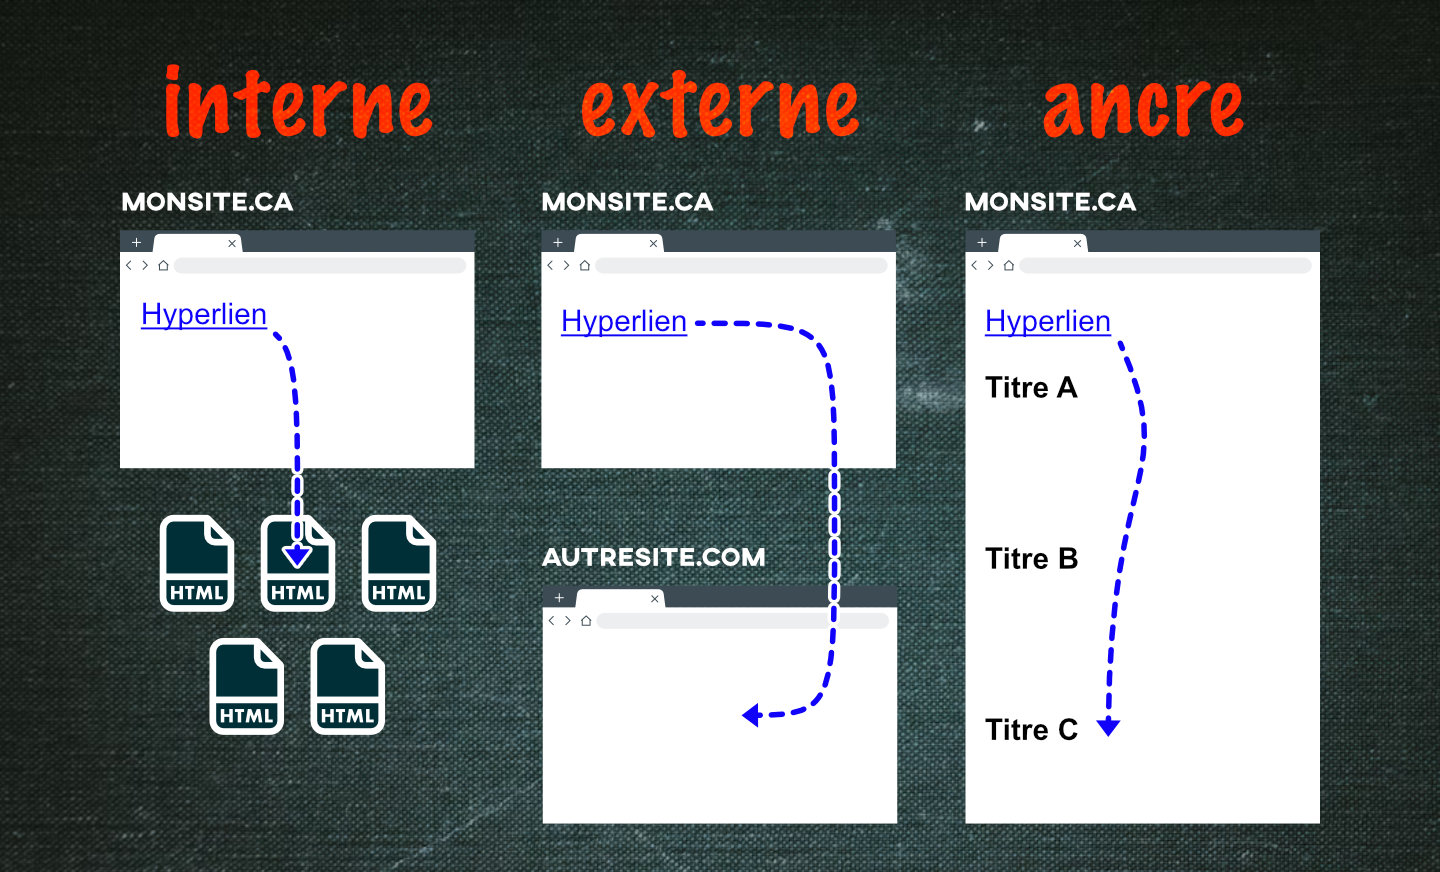
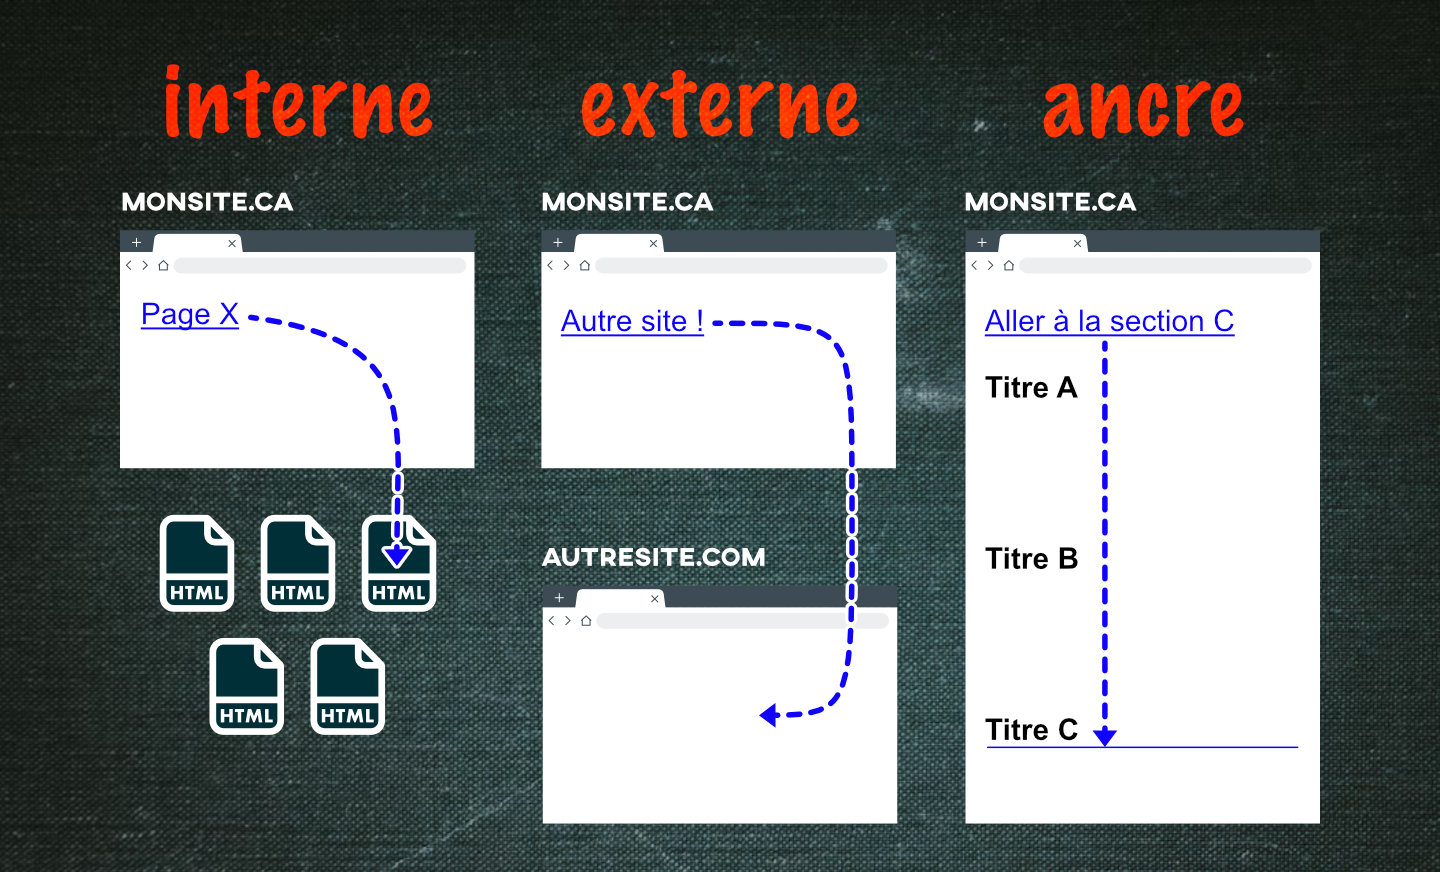
cours 3

diff --git a/docs/582-111-web1/exercices/format/index.html b/docs/582-111-web1/exercices/format/index.html
@@ -1,0 +1,58 @@
+<!DOCTYPE html>
+<html lang="en">
+
+<head>
+    <meta charset="UTF-8">
+    <meta name="viewport" content="width=device-width, initial-scale=1.0">
+    <title>Document</title>
+    <style>
+       @import url('https://fonts.googleapis.com/css2?family=Montserrat:ital,wght@0,100..900;1,100..900&display=swap');
+
+        body {
+            margin: 0;
+            padding: 0;
+            line-height: 1.6;
+            color: white;
+            background-color: black;
+            height: 100vh;
+            display: flex;
+            justify-content: center;
+            align-items: center;
+
+            font-family: "Montserrat", sans-serif;
+            font-optical-sizing: auto;
+            font-weight: 200;
+            font-style: normal;
+        }
+
+        strong, b {
+            font-weight: 900;
+            color: yellowgreen;
+        }
+
+        em, i {
+            font-style: italic;
+            color: darkturquoise;
+        }
+
+        sub {
+            color: deeppink;
+        }
+
+        p {
+            max-width: 80vw;
+            margin: 0 auto;
+            font-size: 2.8vmax;
+        }
+    </style>
+</head>
+
+<body>
+
+    <p>
+        La <strong>vie</strong> sur Terre <em>dépend</em> de l’eau (H<sub>2</sub>O) et est <em>fortement</em> influencée par le dioxyde de carbone (CO<sub>2</sub>).
+    </p>
+
+</body>
+
+</html>

diff --git a/docs/582-111-web1/exercices/fait-du-sens/fait-du-sens-reponse/index.html b/docs/582-111-web1/exercices/fait-du-sens/fait-du-sens-reponse/index.html
@@ -1,0 +1,44 @@
+<!DOCTYPE html>
+<html lang="fr">
+
+<head>
+    <meta charset="UTF-8">
+    <meta name="viewport" content="width=device-width, initial-scale=1.0">
+    <title>Faire du sens</title>
+    <link rel="stylesheet" href="styles.css">
+</head>
+
+<body>
+
+    <header>
+        <h1>Entête du site</h1>
+        <nav>
+            Menu : 
+            <a href="#section1">Section 1</a>
+            <a href="#section2">Section 2</a>
+            <a href="#section3">Section 3</a>
+        </nav>
+    </header>
+
+    <main>
+        <section id="section1">
+            <h2>Section 1</h2>
+            <p>Contenu de la section 1.</p>
+        </section>
+        <section id="section2">
+            <h2>Section 2</h2>
+            <p>Contenu de la section 2.</p>
+        </section>
+        <section id="section3">
+            <h2>Section 3</h2>
+            <p>Contenu de la section 3.</p>
+        </section>
+    </main>
+
+    <footer>
+        <p>Pied de page du site</p>
+    </footer>
+
+</body>
+
+</html>

diff --git a/docs/582-111-web1/exercices/fait-du-sens/fait-du-sens-reponse/styles.css b/docs/582-111-web1/exercices/fait-du-sens/fait-du-sens-reponse/styles.css
@@ -1,0 +1,1 @@
+body{margin:0;font-family:Arial,Helvetica,sans-serif;line-height:1.6;color:#333;background:#f9f9f9}header{background:#2c3e50;color:#fff;padding:1rem;text-align:center}header h1{margin:0;font-size:2rem}nav{margin-top:.5rem}nav a{color:#ecf0f1;text-decoration:none;margin:0 .5rem;padding:.3rem .6rem;border-radius:4px;transition:background 0.3s}nav a:hover{background:#34495e}main{max-width:800px;margin:2rem auto;padding:0 1rem}section{background:#fff;margin-bottom:1.5rem;padding:1.5rem;border-radius:8px;box-shadow:0 2px 5px rgb(0 0 0 / .1)}section h2{margin-top:0;color:#2c3e50}footer{text-align:center;background:#2c3e50;color:#fff;padding:1rem;margin-top:2rem;font-size:.9rem}

diff --git a/docs/582-111-web1/exercices/format/format/styles.css b/docs/582-111-web1/exercices/format/format/styles.css
@@ -1,0 +1,1 @@
+@import url(https://fonts.googleapis.com/css2?family=Montserrat:ital,wght@0,100..900;1,100..900&display=swap);body{margin:0;padding:0;line-height:1.6;color:#fff;background-color:#000;height:100vh;display:flex;justify-content:center;align-items:center;font-family:"Montserrat",sans-serif;font-optical-sizing:auto;font-weight:200;font-style:normal}strong,b{font-weight:900;color:yellowgreen}em,i{font-style:italic;color:darkturquoise}sub{color:deeppink}p{max-width:80vw;margin:0 auto;font-size:2.8vmax}

diff --git a/docs/582-111-web1/exercices/format/format/index.html b/docs/582-111-web1/exercices/format/format/index.html
@@ -1,0 +1,19 @@
+<!DOCTYPE html>
+<html lang="en">
+
+<head>
+    <meta charset="UTF-8">
+    <meta name="viewport" content="width=device-width, initial-scale=1.0">
+    <title>Document</title>
+    <link rel="stylesheet" href="styles.css">
+</head>
+
+<body>
+
+    <p>
+        La vie sur Terre dépend de l’eau (H2O) et est fortement influencée par le dioxyde de carbone (CO2).
+    </p>
+
+</body>
+
+</html>

diff --git a/docs/582-111-web1/cours03.md b/docs/582-111-web1/cours03.md
@@ -24,13 +24,32 @@ Exemple :
 
 ## Validateur HTML
 
-Vous vous souvenez du validateur W3C qui détecte les erreurs dans le HTML ? Hé bien il y a mieux encore 😜
+Vous vous souvenez du validateur W3C qui détecte les erreurs dans le HTML ?
+
+Hé bien il y a mieux encore 😜
 
 L'extension [HTMLHint](https://marketplace.visualstudio.com/items?itemName=mkaufman.HTMLHint) fait _grosso modo_ la même chose que le validateur du W3C, mais à même VSCode !
+
+Pour l'installater :
+
+![](./assets/images/html-hint-find.png){data-zoom-image}
+![](./assets/images/html-hint-activate.png){data-zoom-image}
+
+Résultat :
 
 ![](./assets/images/html-hint.png){data-zoom-image}
 
 :material-information: Il est possible que l'extension HTMLHint ne soit pas installé par défaut sur votre version de vscode. Dans ce cas, cherchez **HTMLHint** dans les extensions VSCode et installez la.
+
+### :octicons-copilot-24: GitHub Copilot
+
+L'extension GitHub Copilot est parfois activée par défaut dans VS Code. Bien qu’utile pour les programmeurs avancés, elle peut nuire à votre apprentissage, car elle génère du code à votre place.
+
+Pour bien assimiler la matière, je vous recommande de désactiver Copilot pendant les exercices.
+
+![](./assets/images/copilot-ext.png){data-zoom-image}
+
+![](./assets/images/copilot-disable.png){data-zoom-image}
 
 ## Rappel sur l'indentation automatique
 
@@ -58,7 +77,8 @@ Dans VSCode, on peut simuler un serveur avec l’option « Go Live ».
 
 Quand on clique sur Go Live, la page Web s’ouvre dans le navigateur.
 
-Observez que l’URL est différente de celle obtenue en double-cliquant sur un fichier HTML.
+Observez que l’URL est différente de celle obtenue en double-cliquant sur un fichier HTML (ex.: http://127.0.0.1:5500/).
+
 C’est ainsi parce que VSCode crée une adresse locale qui simule un vrai site accessible sur le Web.
 
 Ainsi, on peut tester un site comme s’il était hébergé en ligne. Ç'est super pratique et on va bientôt voir pourquoi c’est le cas 😜
@@ -67,24 +87,26 @@ Ainsi, on peut tester un site comme s’il était hébergé en ligne. Ç'est sup
 
 ![](./assets/images/attr-a.jpg){ data-zoom-image }
 
-Les éléments HTML ont des attributs ; ce sont des valeurs supplémentaires qui configurent les éléments ou ajustent leur comportement de différentes manières pour répondre aux critères souhaités par les utilisateurs[^attr].
+Les éléments HTML ont des attributs.
+
+Des attributs, c'est des options de configuration des éléments HTML[^attr].
 
 [^attr]: [Référence des attributs HTML](https://developer.mozilla.org/fr/docs/Web/HTML/Reference/Attributes)
 
 ### Attributs universels
 
-Les attributs universels sont des attributs communs à l'ensemble des éléments HTML. Ces attributs peuvent donc être ajoutés sur tous les éléments[^attrglobal].
+Les attributs universels sont des attributs communs à l'**ensemble** des éléments HTML[^attrglobal].
 
 [^attrglobal]: [Les attributs universels](https://developer.mozilla.org/fr/docs/Web/HTML/Reference/Global_attributes)
 
-| Attribut   | Rôle / Effet visible                          | Exemple |
-|------------|-----------------------------------------------|---------|
-| `title`    | Affiche une info-bulle (tooltip) au survol    | `<p title="Astuce">Survolez-moi</p>` |
-| `dir`      | Définit la direction du texte (`ltr`, `rtl`)  | `<p dir="rtl">Texte en arabe</p>` |
-| `hidden`   | Masque l’élément (il reste dans le code)      | `<p hidden>Texte masqué</p>` |
-| `lang`     | Indique la langue du contenu (accessibilité)  | `<html lang="fr">` |
-| `class`    | Identifiant pour un élément                   | `<p class="texte-important">Paragraphe</p>` |
-| `id`       | Identifiant unique pour un élément            | `<p id="intro">Paragraphe</p>` |
+| Attribut                           | Rôle / Effet visible                          | Exemple |
+|------------------------------------|-----------------------------------------------|---------|
+| `title` :material-format-title:    | Affiche une info-bulle (tooltip) au survol    | `<p title="Astuce">Survolez-moi</p>` |
+| `dir` :material-arrow-left-right:  | Définit la direction du texte (`ltr`, `rtl`)  | `<p dir="rtl">Texte en arabe</p>` |
+| `hidden` :material-ghost:          | Masque l’élément (il reste dans le code)      | `<p hidden>Texte masqué</p>` |
+| `lang` :material-translate:        | Indique la langue du contenu (accessibilité)  | `<html lang="fr">` |
+| `class` :art:                      | Identifiant pour un élément                   | `<p class="texte-important">Paragraphe</p>` |
+| `id` :material-fingerprint:        | Identifiant unique pour un élément            | `<p id="intro">Paragraphe</p>` |
 
 :material-information:  On ne les utilise pas encore, mais vous verrez bientôt que **class** sert à appliquer un style et **id** sert à cibler un élément précis.
 
@@ -189,11 +211,11 @@ Les formats courants sont les `.jpg`, `.png`, `.webp` et `.svg`. Nous y reviendr
 
 Pour savoir quoi écrire dans le texte alternatif (`alt=""`), une règle de pouce veut qu'on s'imagine devoir expliquer une image à une personne qui a les yeux bandés.
 
-## Retour sur l'inspecteur 🕵
+## Inspecteur de :fontawesome-brands-chrome:  Chrome 
 
 ![](./assets/images/django.gif){.w-100}
 
-### Ouvrir l'inspecteur
+### Ouvrir l'inspecteur 🕵 
 
 * Faire un clic droit sur la souris 🖱 et choisir l'option **Inspecter**.
 * Utiliser le raccourci clavier ⌨
@@ -319,7 +341,7 @@ Dans cet exemple, il faut remonter d'un niveau pour avoir accès au dossier asse
 
     [**🧑🏫 Démo du prof**](./exercices/relative.zip)
 
-    Dans cette démo, nous observerons que certains chemins relatifs se comportent différent s'ils sont interprété sur les fichiers locaux ou sur un serveur.
+    Dans cette démo, nous observerons que certains chemins relatifs se comportent différent s'ils sont interprété sur les fichiers locaux ou sur un serveur (ex.: Go Live).
 
 ## Web sémantique
 
@@ -423,6 +445,8 @@ Les anglicismes doivent être pris en charge de manière sémantique. Pour ce fa
   on <a href="https://codepen.io">CodePen</a>.
 </iframe>
 
+:material-information: Utiliser `lang=""` de cette façon est moins nécessaire si c’est un anglicisme passé dans l’usage courant (ex. : « email » ou « weekend »).
+
 ## Balises génériques (non sémantiques)
 
 | Balise | Type | Usage typique |
@@ -460,22 +484,31 @@ Les anglicismes doivent être pris en charge de manière sémantique. Pour ce fa
 ## Exercices
 
 <div class="grid grid-1-2" markdown>
+  ![](./exercices/fait-du-sens/wee-bey.gif)
+
+  <small>Exercice HTML</small><br>
+  **[Fait du sens](./exercices/fait-du-sens/index.md){.stretched-link .back}**
+</div>
+
+<div class="grid grid-1-2" markdown>
+  ![](./exercices/format/aa.png)
+
+  <small>Exercice HTML</small><br>
+  **[Élémentaire](./exercices/format/index.md){.stretched-link .back}**
+</div>
+
+<div class="grid grid-1-2" markdown>
   ![](./exercices/anchor/preview.gif)
 
   <small>Exercice HTML</small><br>
   **[Ancres et cie.](./exercices/anchor/index.md){.stretched-link .back}**
 </div>
 
-<!-- <div class="grid grid-1-2" markdown>
-  ![](./exercices/semantique/preview.gif)
-
-  <small>Exercice HTML</small><br>
-  **[Balises sémantiques](./exercices/mes_premieres_balises.md){.stretched-link .back}**
-</div> -->
+## Devoir
 
 <div class="grid grid-1-2" markdown>
   ![](./exercices/relativite-einsteinienne/preview.gif)
 
-  <small>Exercice formatif</small><br>
+  <small>Devoir formatif</small><br>
   **[Relativité einsteinienne](./exercices/relativite-einsteinienne/index.md){.stretched-link .back}**
 </div>

diff --git a/docs/582-111-web1/exercices/fait-du-sens/index.md b/docs/582-111-web1/exercices/fait-du-sens/index.md
@@ -1,0 +1,23 @@
+# Fait du sens
+
+![](html-semantique.gif){.w-100}
+
+> L'expression « faire du sens » est [déconseillée](https://vitrinelinguistique.oqlf.gouv.qc.ca/23499/les-emprunts-a-langlais/emprunts-syntaxiques/lemprunt-deconseille-faire-du-sens) par l'Office québécois de la langue française. C'est un emprunt à l'anglais. On emploiera alors les expressions « avoir du sens » ou « être sensé », qui permettent d’exprimer la même idée.
+
+L'objectif de cet exercice est d'ajouter du sens à la programmation HTML en modifiant les balises existantes par des balises sémantiques.
+
+[Dossier de départ](./fait-du-sens.zip){ .md-button .md-button--primary }
+
+## Résultat attendu
+
+Si vous modifiez correctement les balises, des styles s'appliqueront automatiquement pour donner un résultat semblable à cette image :
+
+![](resultat-attendu.png){data-zoom-image}
+
+## Consignes
+
+* [ ] Télécharger le dossier de départ
+* [ ] Dézipper le dossier téléchargé
+* [ ] Dans le fichier HTML, identifier les balises à modifier et appliquer la correction
+* [ ] Comparer votre résultat avec le résultat attendu
+* [ ] En levant la main, valider votre code avec l'enseignant

diff --git a/docs/582-111-web1/exercices/format/index.md b/docs/582-111-web1/exercices/format/index.md
@@ -1,0 +1,24 @@
+# Élémentaire
+
+![](./aa.png)
+
+L'objectif de cet exercice est d'appliquer les bonnes balises de **formattage** aux bons endroit.
+
+[Dossier de départ](./format.zip){ .md-button .md-button--primary }
+
+## Résultat attendu
+
+Ajoutez les bonnes balises pour faire apparaitre les styles dans l'image ci-dessous :
+
+![](resultat-attendu.png){data-zoom-image}
+
+> Le dioxyde de carbone (CO2) joue un rôle essentiel dans le cycle du carbone et dans la photosynthèse. Les plantes l’utilisent pour produire de l’oxygène et de l’énergie, mais en trop grande quantité dans l’atmosphère, il contribue aussi au réchauffement climatique.
+
+## Consignes
+
+* [ ] Télécharger le dossier de départ
+* [ ] Dézipper le dossier téléchargé
+* [ ] Dans le fichier HTML, identifier les éléments à affecter
+  * [ ] Ajouter du gras sur le mot vie
+  * [ ] Ajouter de l'italic sur les mots « dépend » et « fortement »
+  * [ ] Ajouter le texte en indice pour les formules chimiques

diff --git a/docs/582-311-web3/cours02.md b/docs/582-311-web3/cours02.md
@@ -703,7 +703,7 @@ Les deux plus grands compétiteurs à GitHub sont :
   ![](./assets/images/mandala-git.jpg)
 
   <small>Exercice - Git</small><br>
-  **[Mandala Git](./git/exercices/git-mandala.md){.stretched-link}**
+  **[Mandala Git](./exercices/git-mandala.md){.stretched-link}**
 </div>
 
 ## Github Desktop
@@ -780,11 +780,13 @@ Il existe plusieurs alternatives à GitHub Desktop, notamment:
   ![](./assets/images/prometheus.jpg)
 
   <small>Exercice - Git</small><br>
-  **[Prometheus](./git/exercices/ghd-prometheus.md){.stretched-link}**
+  **[Prometheus](./exercices/ghd-prometheus.md){.stretched-link}**
 </div>
 
 [STOP]
 
-NOTE PÉDAGOGIQUE :
+RÉFLEXION
+
 Ce cours fini entre 1h et 30min plus tôt.
-La matière enseignée avec Github est trop semblable à celle du cours de muséologie.
+La matière enseignée avec Github est trop semblable à celle du cours de muséologie. Il faut la remplacer.
+Peut-être aborder la notion de github Pages ou encore les actions ?
